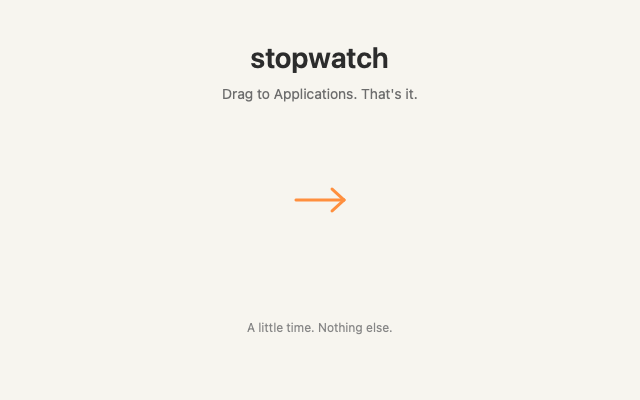
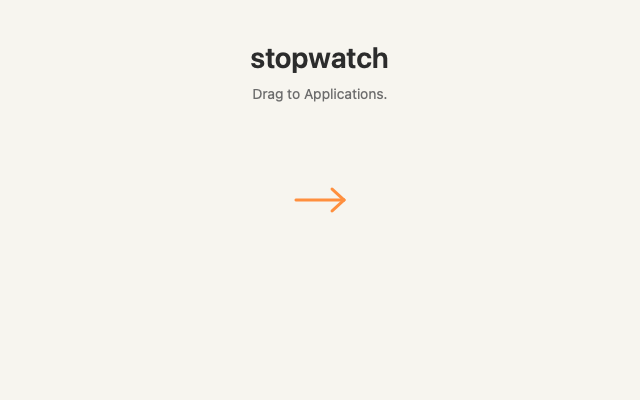
docs: rewrite project copy

Changed region(s): [[0.3438, 0.21, 0.6562, 0.27], [0.375, 0.81, 0.625, 0.84]]

diff --git a/scripts/render-assets.swift b/scripts/render-assets.swift
@@ -48,13 +48,11 @@ try save("assets/installer-background.png", size: NSSize(width: 640, height: 400
     let title = "stopwatch" as NSString
     let titleStyle: [NSAttributedString.Key: Any] = [.font: NSFont.systemFont(ofSize: 29, weight: .semibold), .foregroundColor: NSColor(calibratedWhite: 0.13, alpha: 1)]
     title.draw(at: NSPoint(x: (640 - title.size(withAttributes: titleStyle).width) / 2, y: 326), withAttributes: titleStyle)
-    let subtitle = "Drag to Applications. That's it." as NSString
+    let subtitle = "Drag to Applications." as NSString
     let subtitleStyle: [NSAttributedString.Key: Any] = [.font: NSFont.systemFont(ofSize: 14), .foregroundColor: NSColor(calibratedWhite: 0.35, alpha: 1)]
     subtitle.draw(at: NSPoint(x: (640 - subtitle.size(withAttributes: subtitleStyle).width) / 2, y: 298), withAttributes: subtitleStyle)
     stroke(NSPoint(x: 296, y: 200), NSPoint(x: 344, y: 200), width: 3, color: orange)
     stroke(NSPoint(x: 332, y: 211), NSPoint(x: 344, y: 200), width: 3, color: orange)
     stroke(NSPoint(x: 332, y: 189), NSPoint(x: 344, y: 200), width: 3, color: orange)
-    let footer = "A little time. Nothing else." as NSString
-    let footerStyle: [NSAttributedString.Key: Any] = [.font: NSFont.systemFont(ofSize: 12), .foregroundColor: NSColor(calibratedWhite: 0.45, alpha: 1)]
-    footer.draw(at: NSPoint(x: (640 - footer.size(withAttributes: footerStyle).width) / 2, y: 65), withAttributes: footerStyle)
+
 }

diff --git a/README.md b/README.md
@@ -1,9 +1,9 @@
 <p align="center"><img src="assets/AppIcon.png" width="128" alt="stopwatch icon"></p>
 
 <h1 align="center">stopwatch</h1>
-<p align="center">A little time. Nothing else.</p>
+Sick of bloated software that doesn't work.
 
-A small, transparent stopwatch and countdown timer for macOS. Native Swift and AppKit. No accounts, subscriptions, analytics, network access, or runtime dependencies.
+Just trying to make a stopwatch and timer for macOS with intuitive UX and a sleek UI.
 
 ## Install
 
@@ -11,7 +11,7 @@ Download the latest **stopwatch DMG** from [Releases](https://github.com/Gregory
 
 **Requires macOS 13 Ventura or later.** The app runs natively on Apple Silicon and Intel Macs.
 
-Releases are ad-hoc signed, **not Apple-notarized**. If macOS blocks the downloaded app, use **System Settings → Privacy & Security → Open Anyway** after attempting to open it. No system-wide security changes are needed.
+Releases are ad-hoc signed, **not Apple-notarized**. If macOS blocks the downloaded app, use **System Settings → Privacy & Security → Open Anyway** after attempting to open it.
 
 ## Use
 
@@ -44,15 +44,15 @@ Install Apple's Command Line Tools or Xcode, then:
 open "build/stopwatch.app"
 ```
 
-`build.sh` creates a universal app bundle. To create the release installer:
+Build the DMG:
 
 ```sh
 ./scripts/package.sh
 ```
 
-Packaging uses `dmgbuild`; see the script for its pinned development dependency. The app itself has no third-party dependencies. `./scripts/render-assets.sh` regenerates the icon and installer artwork using native AppKit tools.
+Written in Swift and AppKit. Packaging uses `dmgbuild`. Run `./scripts/render-assets.sh` to regenerate the icon and installer artwork.
 
-An optional tag-triggered release workflow is included at `docs/release-workflow.yml.example`. It is a template, not an active GitHub Action. Releases can be built locally with the scripts above and uploaded using `gh release create`. Build output belongs in Releases, not Git history.
+There's a release workflow template in `docs/release-workflow.yml.example`; it isn't enabled.
 
 ## License
 
